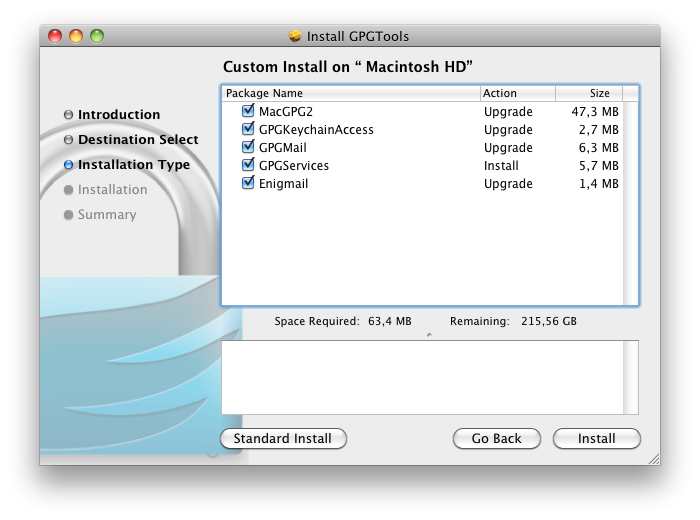
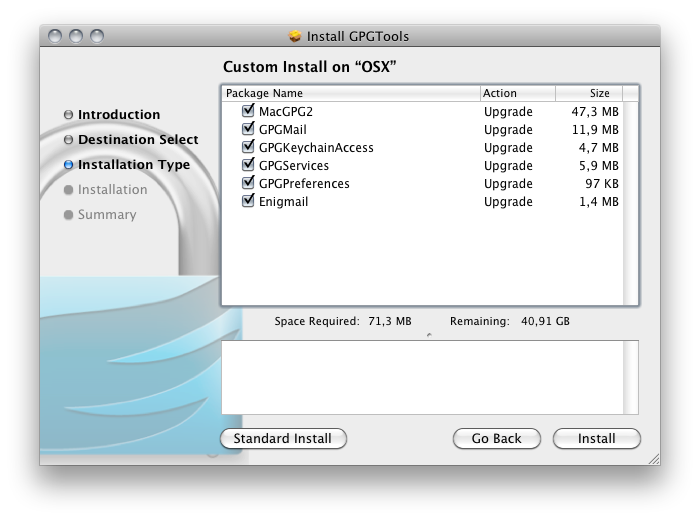
new screenshots, added GPGPreferences

diff --git a/installer.html b/installer.html
@@ -80,6 +80,7 @@
                                 <li><img src="./images/gpgmail.png" alt="GPGMail" title="GPGMail" class="icon" /> Integrated <a href="gpgmail.html">GPGMail</a>.</li>
                                 <li><img src="./images/gpgkeychain.png" alt="GPG Keychain Access" title="GPG Keychain Access" class="icon" /> Integrated <a href="keychain.html">GPG Keychain Access</a>.</li>
                                 <li><img src="./images/gpgservices.png" alt="GPGServices" title="GPGServices" class="icon" /> Integrated <a href="gpgservices.html">GPGServices</a>.</li>
+                                <li><img src="./images/gpgpreferences.png" alt="GPGPreferences" title="GPGPreferences" class="icon" /> Integrated GPGPreferences (initial version, GPGMail auto-fix only).</li>
                                 <li><img src="./images/enigmail.png" alt="Mozilla Enigmail" title="Mozilla Enigmail" class="icon" /> Integrated <a href="http://enigmail.mozdev.org/">Enigmail</a>.</li>
                                 <li><img src="./images/64bit.jpg" alt="Snow Leopard" title="Snow Leopard" class="icon" /> The application is 64-bit and Snow Leopard ready.</li>
                             </ul>
